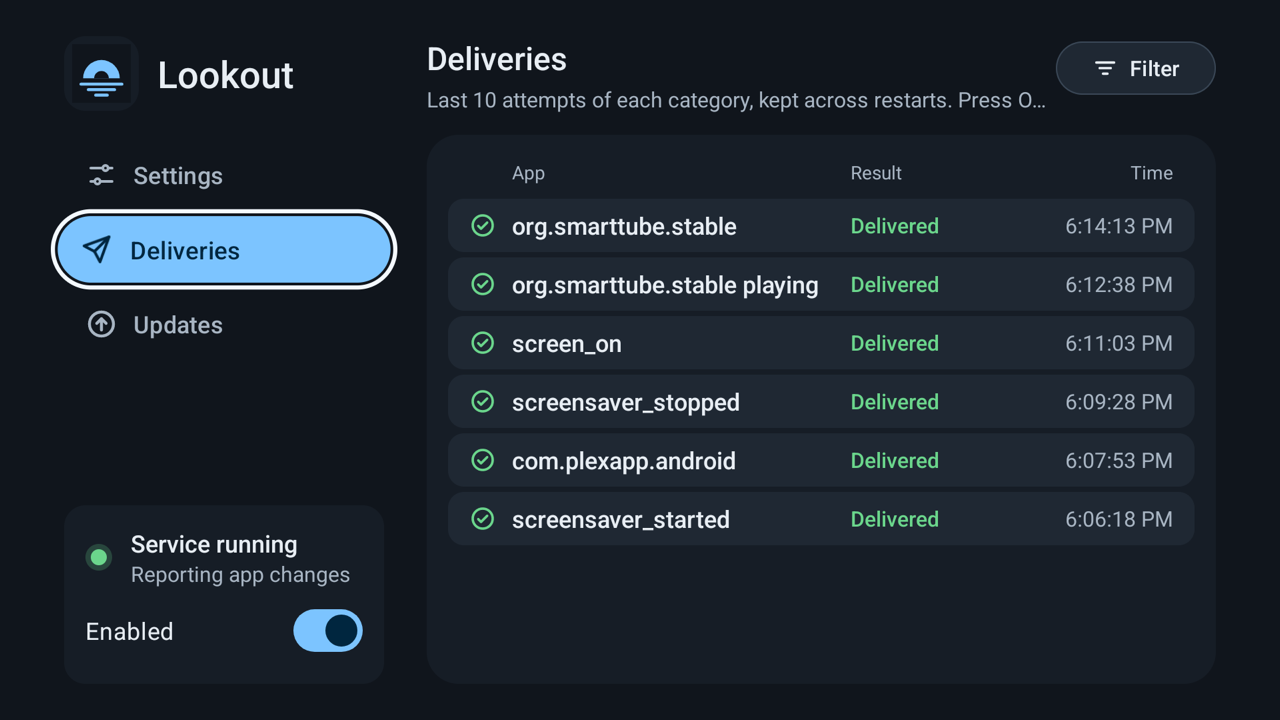
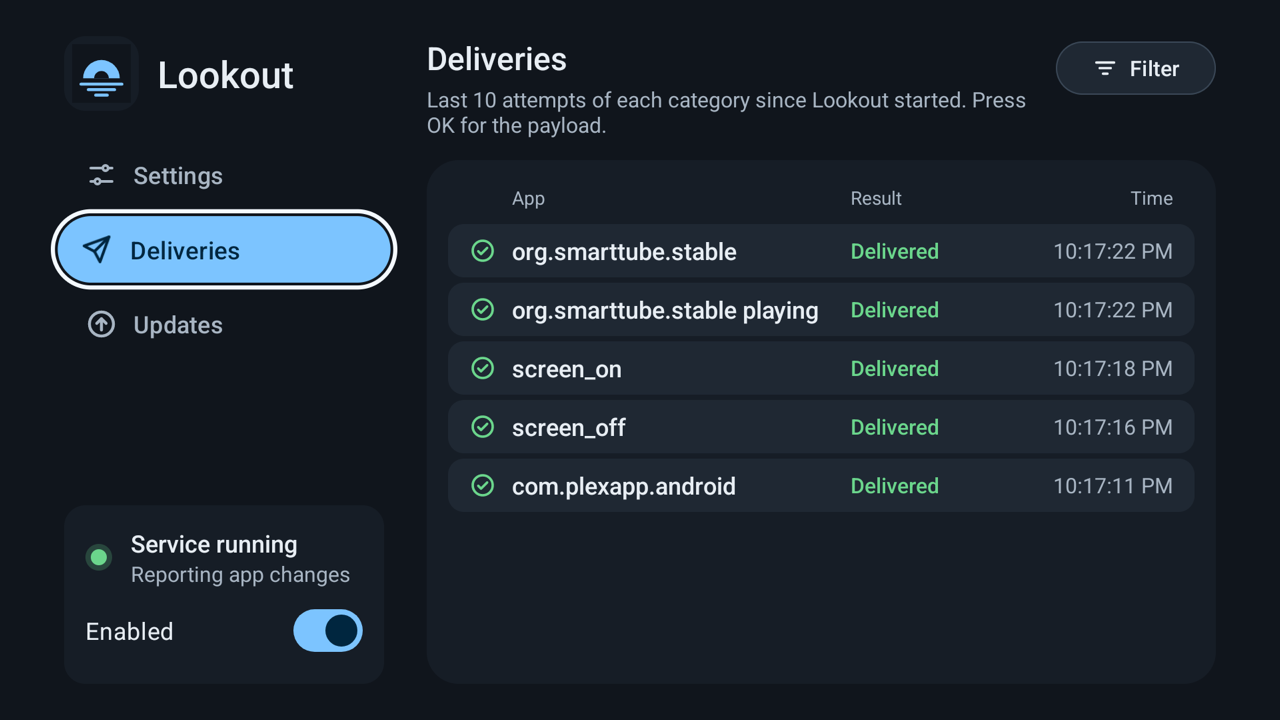
Always show Release notes, and refresh the Updates and Deliveries screenshots
The Release notes button on the Updates tab no longer waits for a newer release: with none, it shows the notes of the installed version. The notes source now takes a Version, and the tag rule (v1.2.3) lives on Version instead of Release.

The Updates and Deliveries screenshots show the new layout and the in-memory deliveries subtitle. Lines over 120 characters are wrapped and an unused import is gone.

diff --git a/app/src/test/java/dev/aman/lookout/update/GitHubReleasesTest.java b/app/src/test/java/dev/aman/lookout/update/GitHubReleasesTest.java
@@ -6,7 +6,6 @@ import static org.junit.Assert.assertTrue;
 import dev.aman.lookout.support.FakeWebhookServer;
 
 import java.io.IOException;
-import java.net.URL;
 import java.nio.charset.StandardCharsets;
 import java.util.Arrays;
 import java.util.Optional;
@@ -148,21 +147,16 @@ public class GitHubReleasesTest {
                 .getBytes(StandardCharsets.UTF_8);
     }
 
-    private static Release release(String version) throws IOException {
-        URL url = new URL("https://example.com/lookout.apk");
-        return new Release(Version.parse(version), url, url);
-    }
-
     @Test
     public void readsTheNotesOfAReleaseFromTheFeed() throws IOException {
         server.route(FEED, 200, null, feedWithNotes("v0.5.0", "&lt;ul&gt;\n&lt;li&gt;Setup&lt;/li&gt;\n&lt;/ul&gt;"));
-        assertEquals("<ul>\n<li>Setup</li>\n</ul>", releases.notesFor(release("0.5.0")).orElseThrow());
+        assertEquals("<ul>\n<li>Setup</li>\n</ul>", releases.notesFor(Version.parse("0.5.0")).orElseThrow());
     }
 
     @Test
     public void aReleaseDoesNotTakeTheNotesOfItsCandidate() throws IOException {
         server.route(FEED, 200, null, feedWithNotes("v0.5.0-rc.1", "&lt;p&gt;Candidate&lt;/p&gt;"));
-        assertTrue(releases.notesFor(release("0.5.0")).isEmpty());
+        assertTrue(releases.notesFor(Version.parse("0.5.0")).isEmpty());
     }
 
     @Test
@@ -171,21 +165,21 @@ public class GitHubReleasesTest {
                 + "<content type=\"html\">&lt;p&gt;See " + TAG_URL + "v0.4.0\"&lt;/p&gt;</content></entry></feed>")
                 .getBytes(StandardCharsets.UTF_8);
         server.route(FEED, 200, null, feed);
-        assertTrue(releases.notesFor(release("0.4.0")).isEmpty());
+        assertTrue(releases.notesFor(Version.parse("0.4.0")).isEmpty());
     }
 
     @Test
     public void reportsNoNotesForAReleaseOutsideTheFeedOrWithoutText() throws IOException {
         server.route(FEED, 200, null, feedWithNotes("v0.5.0", ""));
-        assertTrue(releases.notesFor(release("0.5.0")).isEmpty());
-        assertTrue(releases.notesFor(release("0.4.0")).isEmpty());
+        assertTrue(releases.notesFor(Version.parse("0.5.0")).isEmpty());
+        assertTrue(releases.notesFor(Version.parse("0.4.0")).isEmpty());
         server.route(FEED, 404, null, new byte[0]);
-        assertTrue(releases.notesFor(release("0.5.0")).isEmpty());
+        assertTrue(releases.notesFor(Version.parse("0.5.0")).isEmpty());
     }
 
     @Test(expected = IOException.class)
     public void failsToReadNotesWhenTheFeedErrors() throws IOException {
         server.route(FEED, 503, null, new byte[0]);
-        releases.notesFor(release("0.5.0"));
+        releases.notesFor(Version.parse("0.5.0"));
     }
 }

diff --git a/app/src/main/java/dev/aman/lookout/ui/ReleaseNotesSheet.java b/app/src/main/java/dev/aman/lookout/ui/ReleaseNotesSheet.java
@@ -7,14 +7,14 @@ import android.widget.TextView;
 import androidx.appcompat.app.AppCompatActivity;
 
 import dev.aman.lookout.R;
-import dev.aman.lookout.update.Release;
 import dev.aman.lookout.update.ReleaseNotesSource;
+import dev.aman.lookout.update.Version;
 
 import java.io.IOException;
 import java.util.Optional;
 import java.util.concurrent.Executor;
 
-/** The sheet over the Updates tab that shows what a release changes, read from GitHub when it opens. */
+/** The sheet over the Updates tab that shows what a version changes, read from GitHub when it opens. */
 final class ReleaseNotesSheet {
     private final AppCompatActivity activity;
     private final Executor background;
@@ -39,15 +39,15 @@ final class ReleaseNotesSheet {
     }
 
     /** @param onClosed runs after the sheet closes, to hand focus back to where it came from */
-    void show(Release release, Runnable onClosed) {
+    void show(Version version, Runnable onClosed) {
         int thisOpening = ++opening;
-        title.setText(activity.getString(R.string.release_notes_title, release.version()));
+        title.setText(activity.getString(R.string.release_notes_title, version));
         text.setText(R.string.release_notes_loading);
-        // The sheet is reused, so start each release's notes at their top
+        // The sheet is reused, so start each version's notes at their top
         scroll.scrollTo(0, 0);
         sheet.show(scroll, onClosed);
         background.execute(() -> {
-            CharSequence notes = load(release);
+            CharSequence notes = load(version);
             activity.runOnUiThread(() -> {
                 if (!activity.isDestroyed() && thisOpening == opening) text.setText(notes);
             });
@@ -55,9 +55,9 @@ final class ReleaseNotesSheet {
     }
 
     // Runs in the background: reading the notes goes to the network
-    private CharSequence load(Release release) {
+    private CharSequence load(Version version) {
         try {
-            Optional<String> html = source.notesFor(release);
+            Optional<String> html = source.notesFor(version);
             return html.isPresent()
                     ? Html.fromHtml(html.get(), Html.FROM_HTML_MODE_LEGACY)
                     : activity.getText(R.string.release_notes_none);

diff --git a/app/src/main/java/dev/aman/lookout/ui/UpdatesPanel.java b/app/src/main/java/dev/aman/lookout/ui/UpdatesPanel.java
@@ -38,7 +38,6 @@ public final class UpdatesPanel {
     private final MaterialButton checkButton;
     private final View progress;
     private final TextView installButton;
-    private final View updateActions;
     private final View notesButton;
     private final ReleaseNotesSheet notes;
     private final Version installed;
@@ -63,7 +62,6 @@ public final class UpdatesPanel {
         checkButton = activity.findViewById(R.id.check_updates);
         progress = activity.findViewById(R.id.update_progress);
         installButton = activity.findViewById(R.id.install_update);
-        updateActions = activity.findViewById(R.id.update_actions);
         notesButton = activity.findViewById(R.id.release_notes);
         notes = new ReleaseNotesSheet(activity, background, releases);
         installed = Version.parse(InstalledVersion.name(activity));
@@ -98,8 +96,9 @@ public final class UpdatesPanel {
     }
 
     private void showNotes() {
-        if (busy || available == null) return;
-        notes.show(available, notesButton::requestFocus);
+        if (busy) return;
+        // What a newer release brings, or else what the installed one did
+        notes.show(available != null ? available.version() : installed, notesButton::requestFocus);
     }
 
     private void install() {
@@ -139,7 +138,7 @@ public final class UpdatesPanel {
     private void showCheckResult(Optional<Release> newer, boolean quiet) {
         setBusy(false);
         available = newer.orElse(null);
-        updateActions.setVisibility(newer.isPresent() ? View.VISIBLE : View.GONE);
+        installButton.setVisibility(newer.isPresent() ? View.VISIBLE : View.GONE);
         // Install is the primary action once there is something to install
         ButtonStyle.setPrimary(checkButton, !newer.isPresent());
         onAvailabilityChanged.accept(newer);

diff --git a/app/src/test/java/dev/aman/lookout/update/UpdateCheckerTest.java b/app/src/test/java/dev/aman/lookout/update/UpdateCheckerTest.java
@@ -38,13 +38,15 @@ public class UpdateCheckerTest {
 
     @Test
     public void offersAPreReleaseNewerThanTheInstalledStableRelease() throws IOException {
-        assertEquals("0.3.0-rc.1",
-                new UpdateChecker(publishing("0.3.0-rc.1")).newerThan(Version.parse("0.2.0"), true).orElseThrow().version().toString());
+        Release offered = new UpdateChecker(publishing("0.3.0-rc.1")).newerThan(Version.parse("0.2.0"), true)
+                .orElseThrow();
+        assertEquals("0.3.0-rc.1", offered.version().toString());
     }
 
     @Test
     public void offersTheNextCandidateAndTheStableReleaseThatFollowsIt() throws IOException {
-        assertTrue(new UpdateChecker(publishing("0.3.0-rc.2")).newerThan(Version.parse("0.3.0-rc.1"), true).isPresent());
+        assertTrue(new UpdateChecker(publishing("0.3.0-rc.2"))
+                .newerThan(Version.parse("0.3.0-rc.1"), true).isPresent());
         assertTrue(new UpdateChecker(publishing("0.3.0")).newerThan(Version.parse("0.3.0-rc.2"), true).isPresent());
     }
 
@@ -67,6 +69,7 @@ public class UpdateCheckerTest {
 
     @Test
     public void staysQuietWhenNothingIsPublished() throws IOException {
-        assertTrue(new UpdateChecker(includePreReleases -> Optional.empty()).newerThan(Version.parse("1.0.0"), false).isEmpty());
+        UpdateChecker checker = new UpdateChecker(includePreReleases -> Optional.empty());
+        assertTrue(checker.newerThan(Version.parse("1.0.0"), false).isEmpty());
     }
 }

diff --git a/app/src/test/java/dev/aman/lookout/update/ReleaseNotesTest.java b/app/src/test/java/dev/aman/lookout/update/ReleaseNotesTest.java
@@ -17,14 +17,15 @@ public class ReleaseNotesTest {
 
     @Test
     public void dropsTheFullChangelogLink() {
-        String html = "<ul><li>One</li></ul>\n<p><strong>Full Changelog</strong>: <a href=\"x\"><tt>v1...v2</tt></a></p>";
+        String html = "<ul><li>One</li></ul>\n"
+                + "<p><strong>Full Changelog</strong>: <a href=\"x\"><tt>v1...v2</tt></a></p>";
         assertEquals("<ul><li>One</li></ul>", ReleaseNotes.fromFeedContent(escaped(html)));
     }
 
     @Test
     public void keepsTheTextOfALinkButNotTheLink() {
-        assertEquals("<p>See the guide.</p>",
-                ReleaseNotes.fromFeedContent(escaped("<p>See <a class=\"x\" href=\"https://e.com\">the guide</a>.</p>")));
+        String html = "<p>See <a class=\"x\" href=\"https://e.com\">the guide</a>.</p>";
+        assertEquals("<p>See the guide.</p>", ReleaseNotes.fromFeedContent(escaped(html)));
     }
 
     @Test
@@ -35,7 +36,8 @@ public class ReleaseNotesTest {
     @Test
     public void unescapesTheFeedOnlyOnce() {
         // The feed escapes the HTML, whose own text is escaped again: the renderer decodes the second layer
-        assertEquals("<p>a &lt;b&gt; &amp; c</p>", ReleaseNotes.fromFeedContent("&lt;p&gt;a &amp;lt;b&amp;gt; &amp;amp; c&lt;/p&gt;"));
+        assertEquals("<p>a &lt;b&gt; &amp; c</p>",
+                ReleaseNotes.fromFeedContent("&lt;p&gt;a &amp;lt;b&amp;gt; &amp;amp; c&lt;/p&gt;"));
     }
 
     @Test

diff --git a/app/src/test/java/dev/aman/lookout/playback/MediaDetailsTest.java b/app/src/test/java/dev/aman/lookout/playback/MediaDetailsTest.java
@@ -56,13 +56,16 @@ public class MediaDetailsTest {
     public void aTooLongArtworkAddressIsPassedOverNotCut() {
         String address = "https://e.com/" + "a".repeat(MediaDetails.MAX_ADDRESS);
         assertEquals("{}", json(MediaDetails.builder().artwork(address).build()));
-        assertEquals("{\"artwork\":\"HTTPS://ok\"}", json(MediaDetails.builder().artwork(address, "HTTPS://ok").build()));
+        assertEquals("{\"artwork\":\"HTTPS://ok\"}",
+                json(MediaDetails.builder().artwork(address, "HTTPS://ok").build()));
     }
 
     @Test
     public void detailsAreEqualOnlyWhenEveryFieldIs() {
-        assertEquals(MediaDetails.builder().title("a").year(1).build(), MediaDetails.builder().title("a").year(1).build());
-        assertNotEquals(MediaDetails.builder().title("a").build(), MediaDetails.builder().title("a").genre("g").build());
+        assertEquals(MediaDetails.builder().title("a").year(1).build(),
+                MediaDetails.builder().title("a").year(1).build());
+        assertNotEquals(MediaDetails.builder().title("a").build(),
+                MediaDetails.builder().title("a").genre("g").build());
         assertNotEquals(MediaDetails.builder().durationMillis(1_000).build(), MediaDetails.NONE);
     }
 }

diff --git a/app/src/test/java/dev/aman/lookout/setup/AdbCommandTest.java b/app/src/test/java/dev/aman/lookout/setup/AdbCommandTest.java
@@ -6,11 +6,13 @@ import static org.junit.Assert.assertTrue;
 import org.junit.Test;
 
 public class AdbCommandTest {
-    private final AdbCommand commands = new AdbCommand("dev.aman.lookout", "dev.aman.lookout/dev.aman.lookout.playback.MediaAccessService");
+    private static final String LISTENER = "dev.aman.lookout/dev.aman.lookout.playback.MediaAccessService";
+
+    private final AdbCommand commands = new AdbCommand("dev.aman.lookout", LISTENER);
 
     @Test
     public void allowsMediaAccessThroughTheNotificationListener() {
-        assertEquals("adb shell cmd notification allow_listener dev.aman.lookout/dev.aman.lookout.playback.MediaAccessService",
+        assertEquals("adb shell cmd notification allow_listener " + LISTENER,
                 commands.forPermission(Permission.MEDIA_ACCESS));
     }
 

diff --git a/app/src/main/java/dev/aman/lookout/update/ReleaseNotes.java b/app/src/main/java/dev/aman/lookout/update/ReleaseNotes.java
@@ -10,7 +10,8 @@ import java.util.regex.Pattern;
 public final class ReleaseNotes {
     private static final Pattern ENTITY = Pattern.compile("&(#x[0-9a-fA-F]+|#\\d+|[a-z]+);");
     // The link to the full diff that GitHub appends to every release: a bare version range means nothing on a TV
-    private static final Pattern DIFF_LINK = Pattern.compile("<p><strong>Full Changelog</strong>.*?</p>", Pattern.DOTALL);
+    private static final Pattern DIFF_LINK =
+            Pattern.compile("<p><strong>Full Changelog</strong>.*?</p>", Pattern.DOTALL);
     // Nothing on a TV can follow a link, so only its text is kept
     private static final Pattern LINK = Pattern.compile("<a\\b[^>]*>(.*?)</a>", Pattern.DOTALL);
     private static final Pattern CODE_START = Pattern.compile("<code\\b[^>]*>");

diff --git a/app/src/main/java/dev/aman/lookout/update/ReleaseNotesSource.java b/app/src/main/java/dev/aman/lookout/update/ReleaseNotesSource.java
@@ -3,8 +3,8 @@ package dev.aman.lookout.update;
 import java.io.IOException;
 import java.util.Optional;
 
-/** Where the notes a release was published with can be read. */
+/** Where the notes a version was published with can be read. */
 public interface ReleaseNotesSource {
-    /** @return the notes as HTML to render, or empty if the release has none or has left the source's list */
-    Optional<String> notesFor(Release release) throws IOException;
+    /** @return the notes as HTML to render, or empty if the version has none or has left the source's list */
+    Optional<String> notesFor(Version version) throws IOException;
 }

diff --git a/app/src/main/java/dev/aman/lookout/update/GitHubReleases.java b/app/src/main/java/dev/aman/lookout/update/GitHubReleases.java
@@ -54,8 +54,8 @@ public final class GitHubReleases implements ReleaseSource, ReleaseNotesSource {
     }
 
     @Override
-    public Optional<String> notesFor(Release release) throws IOException {
-        String tagLink = TAG_MARKER + release.tag();
+    public Optional<String> notesFor(Version version) throws IOException {
+        String tagLink = TAG_MARKER + version.tag();
         Matcher entries = FEED_ENTRY.matcher(readFeed());
         while (entries.find()) {
             // Only the entry's own link names its release, as notes may link to other releases; matching the end of

diff --git a/app/src/main/java/dev/aman/lookout/ui/DeliveriesAdapter.java b/app/src/main/java/dev/aman/lookout/ui/DeliveriesAdapter.java
@@ -27,7 +27,7 @@ final class DeliveriesAdapter extends ListAdapter<DeliveryRecord, DeliveriesAdap
     }
 
     // Records are immutable, so the same instance is the same row
-    private static final DiffUtil.ItemCallback<DeliveryRecord> SAME_RECORD = new DiffUtil.ItemCallback<DeliveryRecord>() {
+    private static final DiffUtil.ItemCallback<DeliveryRecord> SAME_RECORD = new DiffUtil.ItemCallback<>() {
         @Override
         public boolean areItemsTheSame(@NonNull DeliveryRecord a, @NonNull DeliveryRecord b) {
             return a == b;

diff --git a/app/src/main/java/dev/aman/lookout/update/Version.java b/app/src/main/java/dev/aman/lookout/update/Version.java
@@ -66,6 +66,11 @@ public final class Version implements Comparable<Version> {
         return Arrays.hashCode(core) * 31 + preRelease.hashCode();
     }
 
+    /** The git tag a release of this version is published under. */
+    public String tag() {
+        return "v" + text;
+    }
+
     @Override
     public String toString() {
         return text;
